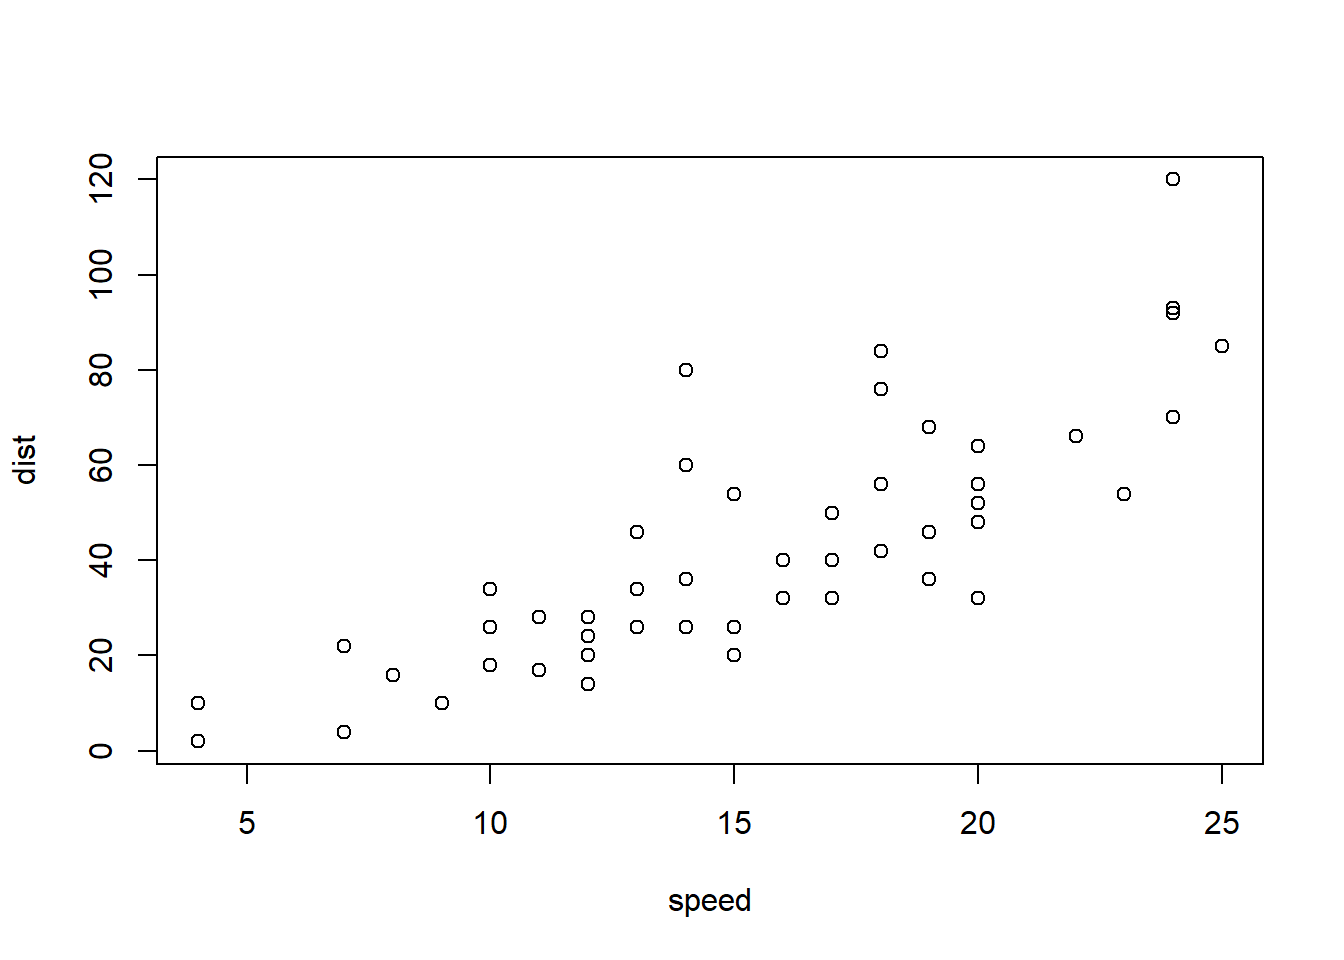
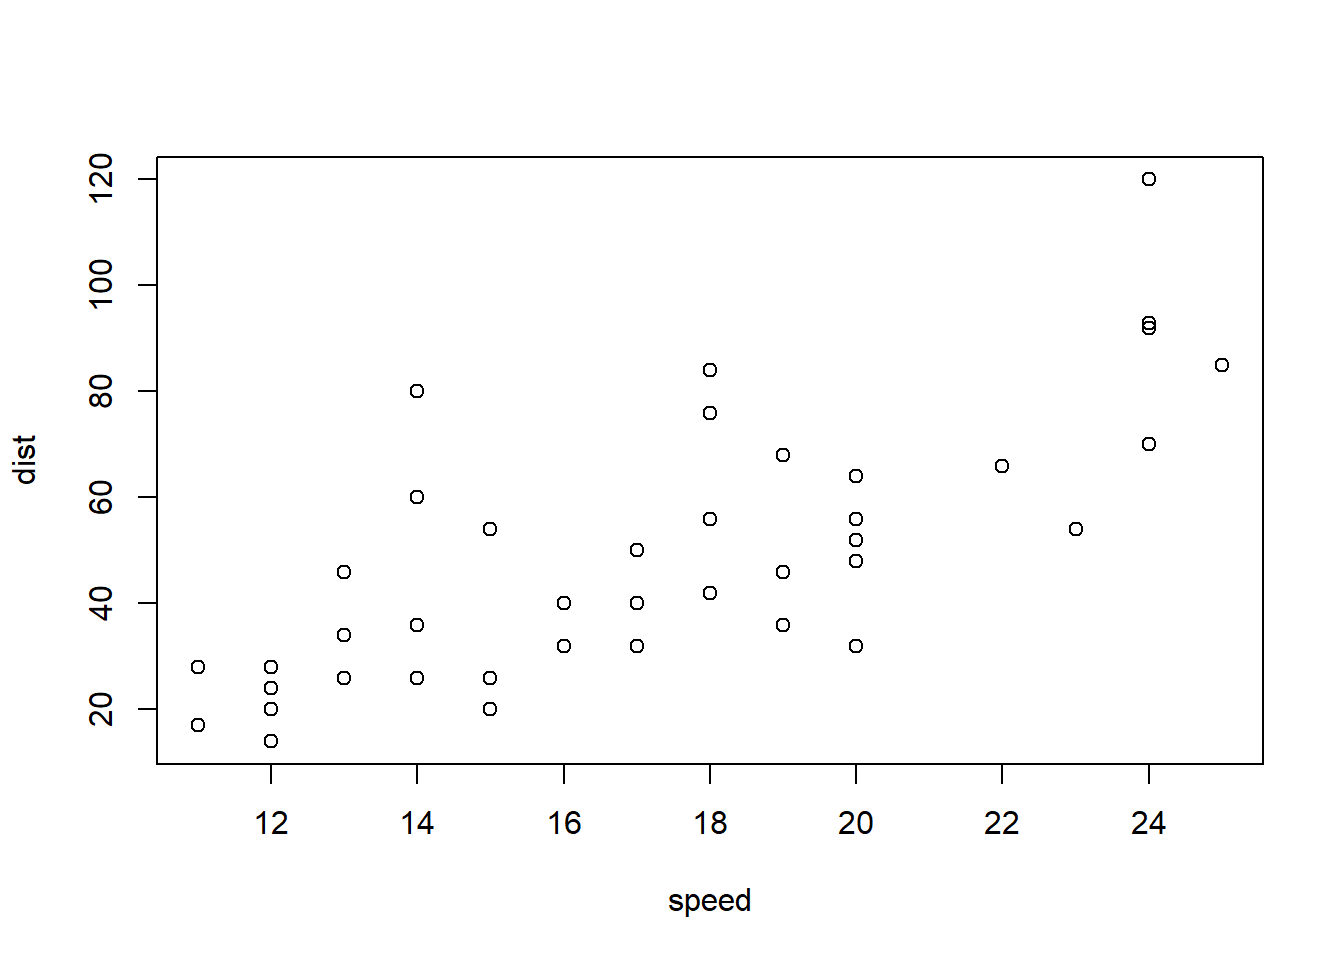
Build site.

diff --git a/docs/about.html b/docs/about.html
@@ -473,16 +473,16 @@ This reproducible <a href="http://rmarkdown.rstudio.com">R Markdown</a> analysis
 <div class="panel panel-default">
 <div class="panel-heading">
 <p class="panel-title">
-<a data-toggle="collapse" data-parent="#workflowr-checks" href="#strongRepositoryversionstrong5d7e18e"> <span class="glyphicon glyphicon-ok text-success" aria-hidden="true"></span> <strong>Repository version:</strong> 5d7e18e </a>
+<a data-toggle="collapse" data-parent="#workflowr-checks" href="#strongRepositoryversionstrongd90334f"> <span class="glyphicon glyphicon-ok text-success" aria-hidden="true"></span> <strong>Repository version:</strong> d90334f </a>
 </p>
 </div>
-<div id="strongRepositoryversionstrong5d7e18e" class="panel-collapse collapse">
+<div id="strongRepositoryversionstrongd90334f" class="panel-collapse collapse">
 <div class="panel-body">
 <p>
 Great! You are using Git for version control. Tracking code development and connecting the code version to the results is critical for reproducibility.
 </p>
 <p>
-The results in this page were generated with repository version 5d7e18e. See the <em>Past versions</em> tab to see a history of the changes made to the R Markdown and HTML files.
+The results in this page were generated with repository version d90334f. See the <em>Past versions</em> tab to see a history of the changes made to the R Markdown and HTML files.
 </p>
 <p>
 Note that you need to be careful to ensure that all relevant files for the analysis have been committed to Git prior to generating the results (you can use <code>wflow_publish</code> or <code>wflow_git_commit</code>). workflowr only checks the R Markdown file, but you know if there are other scripts or data files that it depends on. Below is the status of the Git repository when the results were generated:
@@ -491,10 +491,6 @@ Note that you need to be careful to ensure that all relevant files for the analy
 Ignored files:
     Ignored:    .Rhistory
     Ignored:    .Rproj.user/
-
-Unstaged changes:
-    Modified:   README.md
-    Modified:   analysis/_site.yml
 
 </code></pre>
 <p>
@@ -538,6 +534,40 @@ Message
 Rmd
 </td>
 <td>
+d90334f
+</td>
+<td>
+vanbuggenum
+</td>
+<td>
+2022-02-14
+</td>
+<td>
+modify figure cars
+</td>
+</tr>
+<tr>
+<td>
+html
+</td>
+<td>
+ab44fba
+</td>
+<td>
+vanbuggenum
+</td>
+<td>
+2022-02-14
+</td>
+<td>
+Build site.
+</td>
+</tr>
+<tr>
+<td>
+Rmd
+</td>
+<td>
 5d7e18e
 </td>
 <td>
@@ -576,7 +606,7 @@ Start workflowr project.
 </div>
 <p>This is an example <a href="http://rmarkdown.rstudio.com">R Markdown</a> Notebook. When you execute code within the notebook, the results appear beneath the code.</p>
 <p>Try executing this chunk by clicking the <em>Run</em> button within the chunk or by placing your cursor inside it and pressing <em>Ctrl+Shift+Enter</em>.</p>
-<div class="sourceCode" id="cb1"><pre class="sourceCode r"><code class="sourceCode r"><span id="cb1-1"><a href="#cb1-1" aria-hidden="true" tabindex="-1"></a><span class="fu">plot</span>(cars)</span></code></pre></div>
+<div class="sourceCode" id="cb1"><pre class="sourceCode r"><code class="sourceCode r"><span id="cb1-1"><a href="#cb1-1" aria-hidden="true" tabindex="-1"></a><span class="fu">plot</span>(cars[<span class="dv">10</span><span class="sc">:</span><span class="dv">50</span>,])</span></code></pre></div>
 <p><img src="figure/about.Rmd/unnamed-chunk-1-1.png" width="672" style="display: block; margin: auto;" /></p>
 <p>Add a new chunk by clicking the <em>Insert Chunk</em> button on the toolbar or by pressing <em>Ctrl+Alt+I</em>.</p>
 <p>When you save the notebook, an HTML file containing the code and output will be saved alongside it (click the <em>Preview</em> button or press <em>Ctrl+Shift+K</em> to preview the HTML file).</p>
